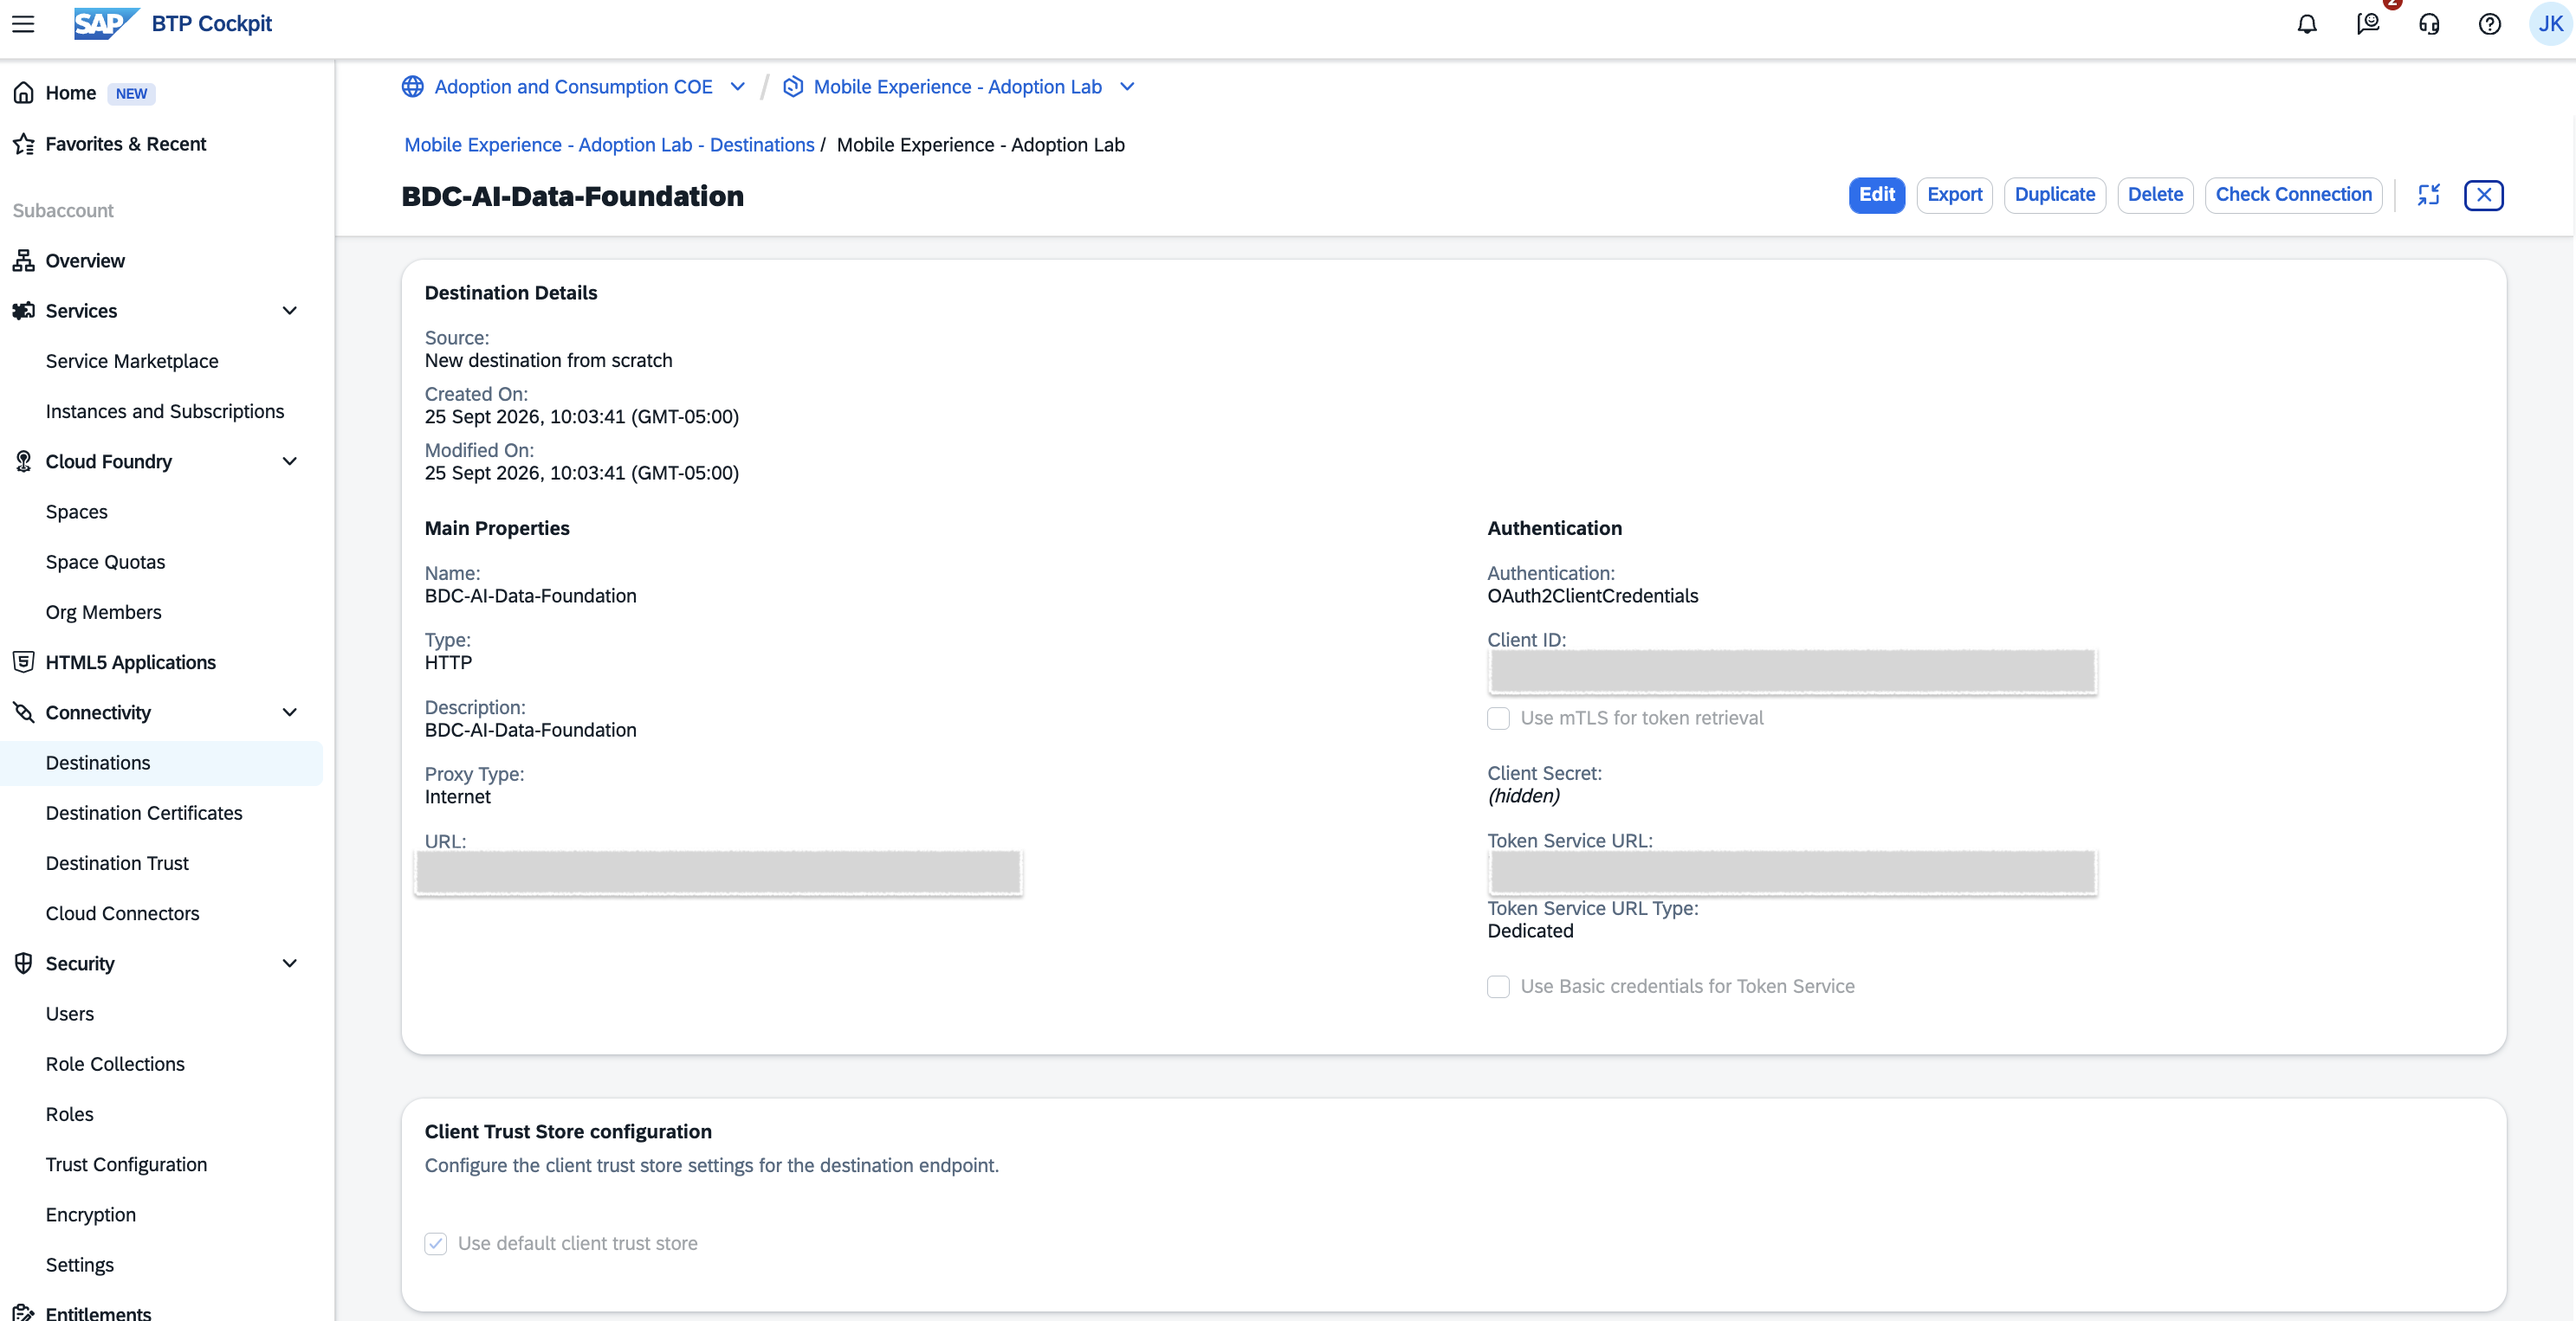
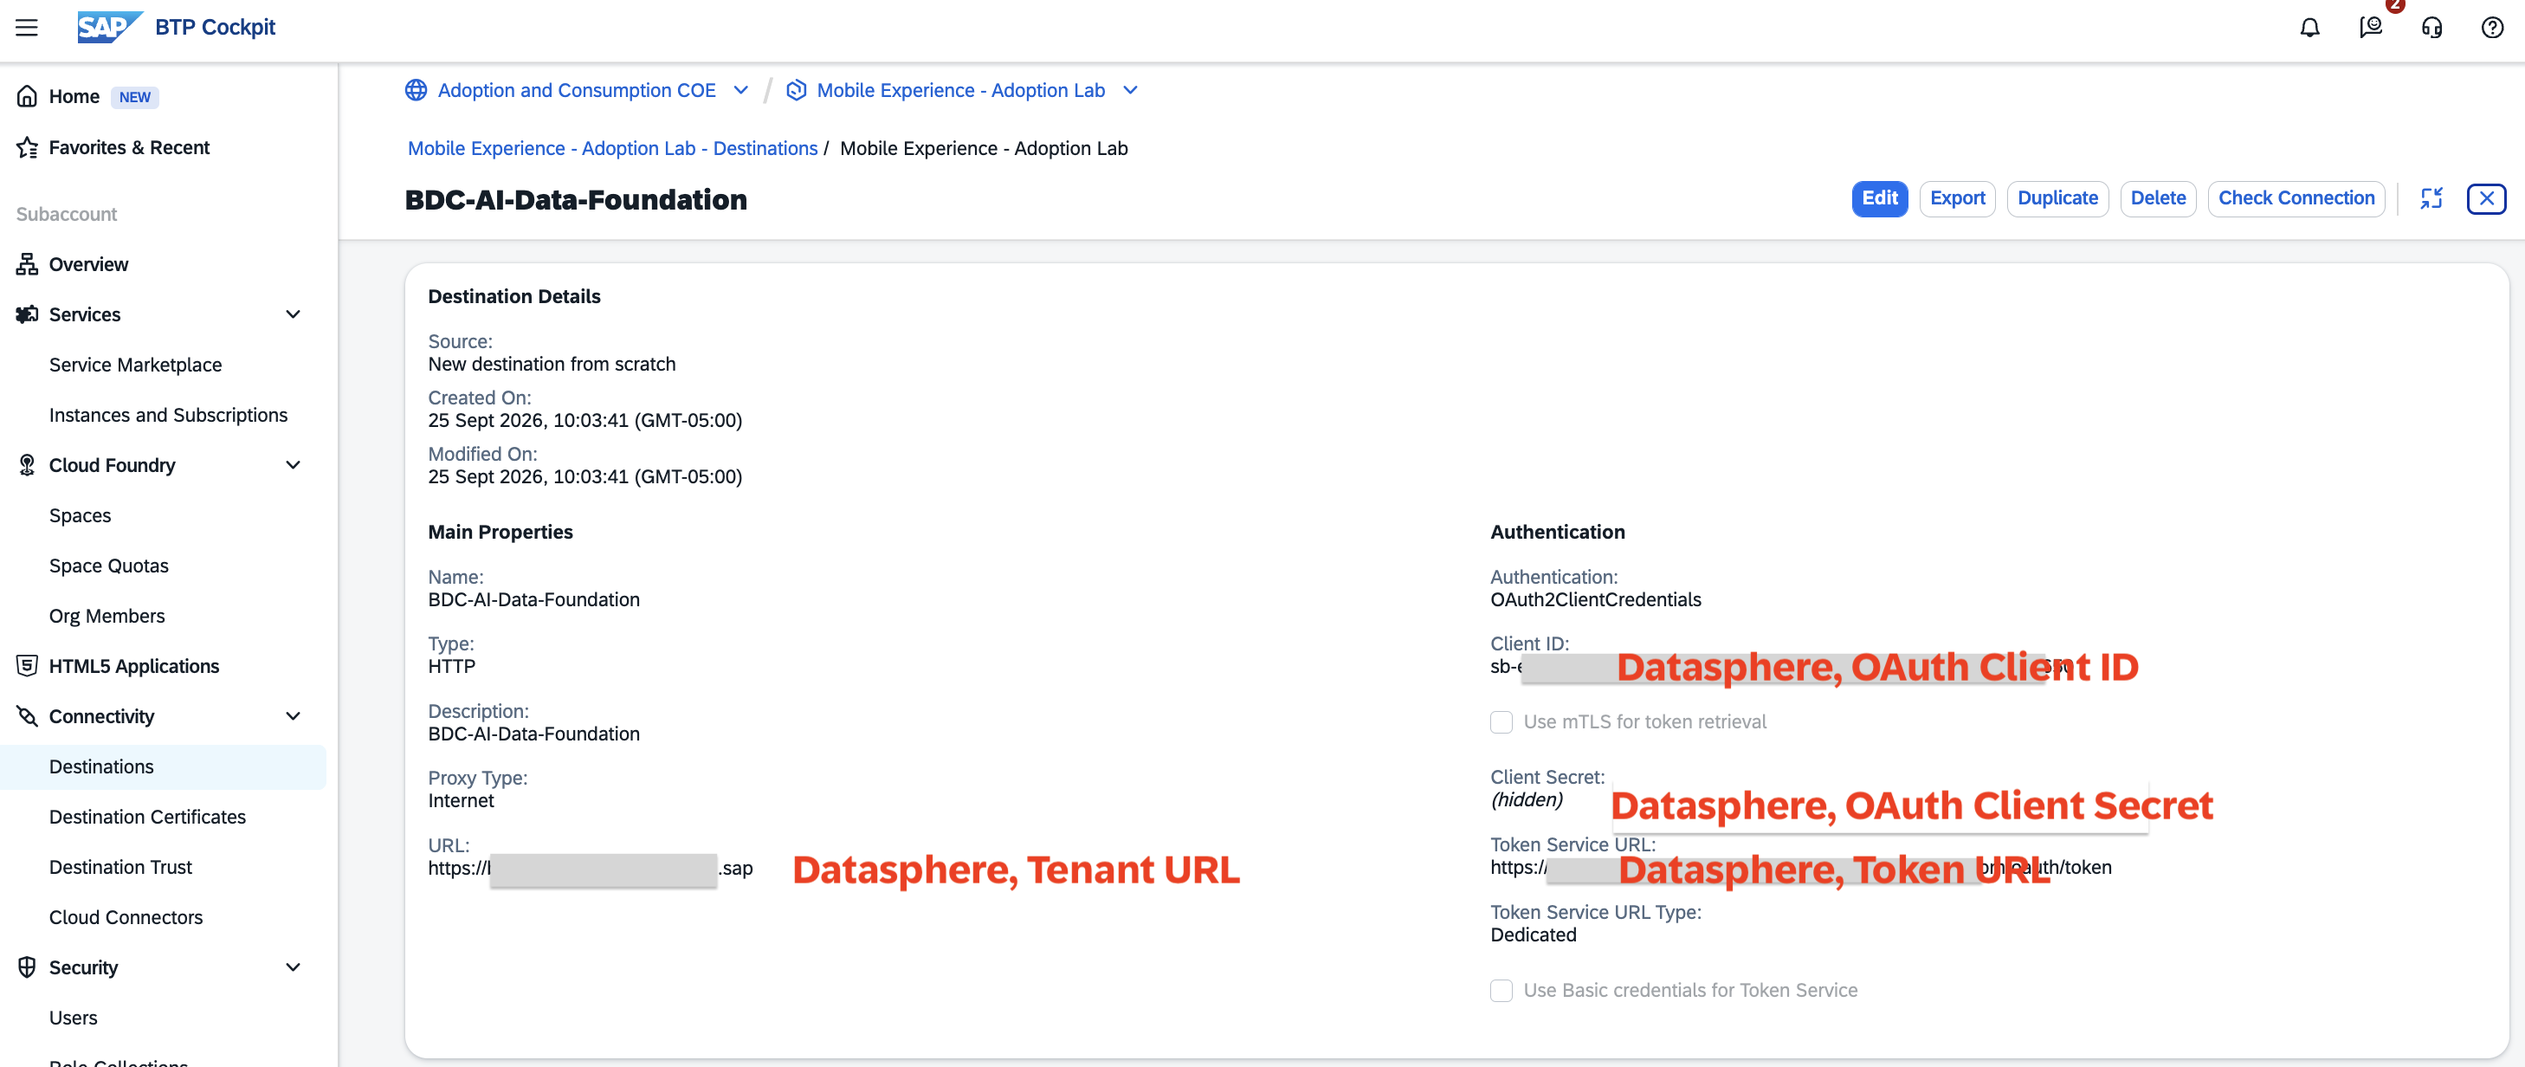
commit changes

diff --git a/module3_exercise_guide.md b/module3_exercise_guide.md
@@ -127,10 +127,23 @@ Before starting this exercise, ensure you have access to:
   | `V_SUPPLIER` | Relational | `/api/v1/datasphere/consumption/relational/AI_DATA_FOUNDATION/V_SUPPLIER/V_SUPPLIER/SET` |
   | `AM_SUPPLIER_RISK_SCORE` | Analytical | `/api/v1/datasphere/consumption/analytical/AI_DATA_FOUNDATION/AM_SUPPLIER_RISK_SCORE/AM_SUPPLIER_RISK_SCORE` |
 
-  > **Note:** To expose an OData service in SAP Datasphere, navigate to the respective Analytic Model or View, open the properties, and enable **Expose for Consumption**. Refer to [SAP Datasphere — Consuming Data via OData](https://help.sap.com/docs/SAP_DATASPHERE) for detailed steps.
+  > **Note:** To expose an OData service in SAP Datasphere, navigate to the respective Analytic Model or View, open the properties, and enable **Expose for Consumption**. Refer to [SAP Datasphere — Consuming Data via OData](https://help.sap.com/docs/SAP_DATASPHERE/43509d67b8b84e66a30851e832f66911/7a453609c8694b029493e7d87e0de60a.html) for detailed steps.
+    ![SAP Datasphere, Expose for Consumption](images/generateodata1.png)
+
+    ![SAP Datasphere, Generate Odata Request](images/generateodata2.png)
 
 
 - An SAP BTP subaccount with the following services provisioned:
+  - **Integration Between SAP Datasphere and SAP BTP Destination Service** Refer to [How to Consume SAP Datasphere Analytical Models Using OData Services: Part 1 and Part 2 sections only](https://community.sap.com/t5/technology-blog-posts-by-sap/how-to-consume-sap-datasphere-analytical-models-to-sap-fiori-using-odata/ba-p/14445184) for detailed steps.
+
+  1. `Expose the Analytical Model for Consumption`
+  2. `Establish Trust Between Datasphere and BTP`
+  3. `Configure OAuth in SAP Datasphere - Choose approach that fits best in your scenario`
+
+    ![SAP Datasphere, OAuth Client_1](datasphereoauthclient1.png)
+
+    ![SAP Datasphere, OAuth Client_2](datasphereoauthclient2.png)
+  
   - **Destination Service** instance with a configured SAP Datasphere destination — Type: `HTTP`, Name: `BDC-AI-Data-Foundation`
     ![SAP BTP, Destination Service_1](images/btpdestinationservice1.png)
 
